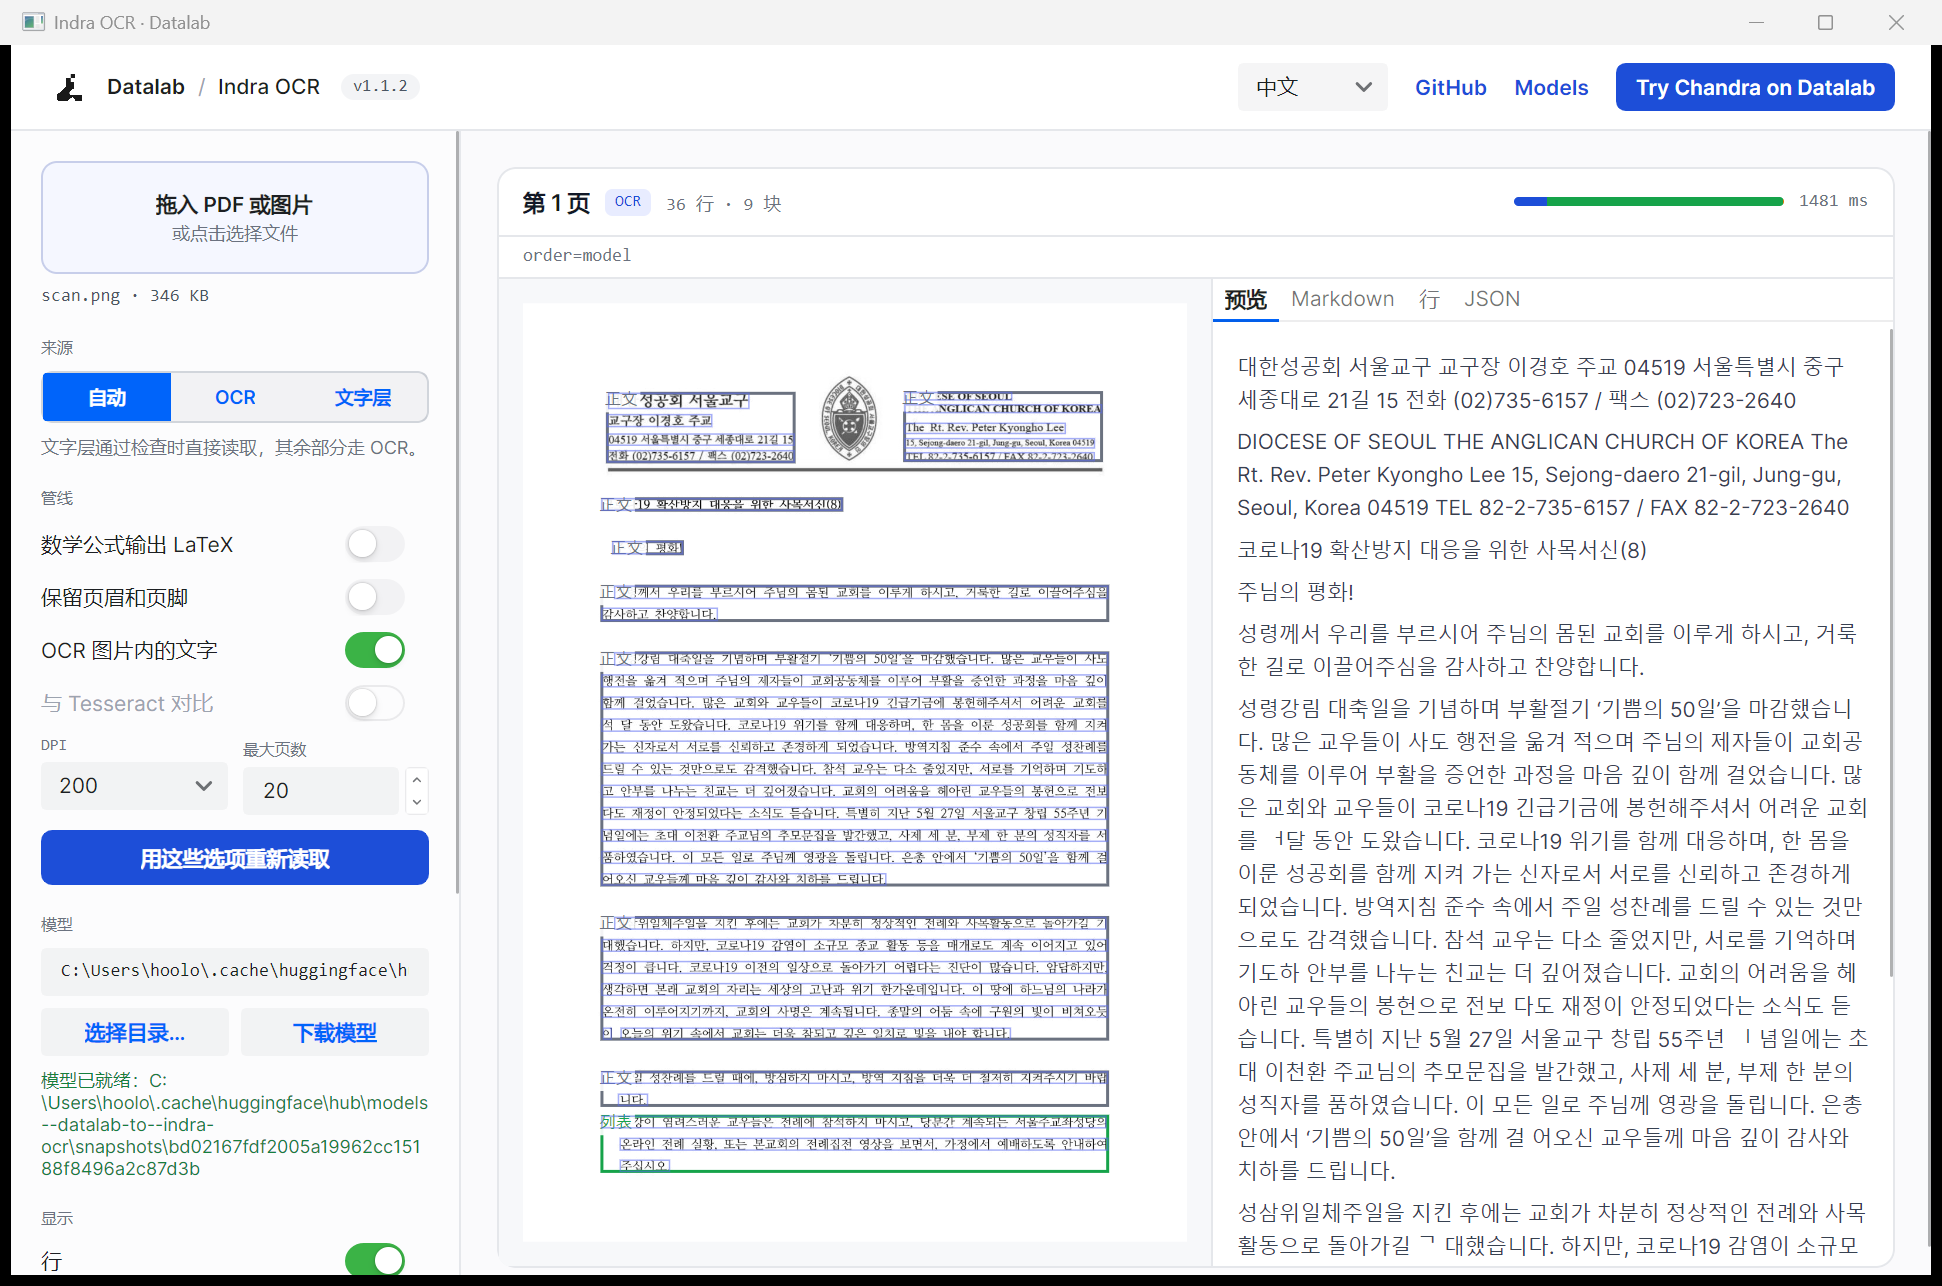
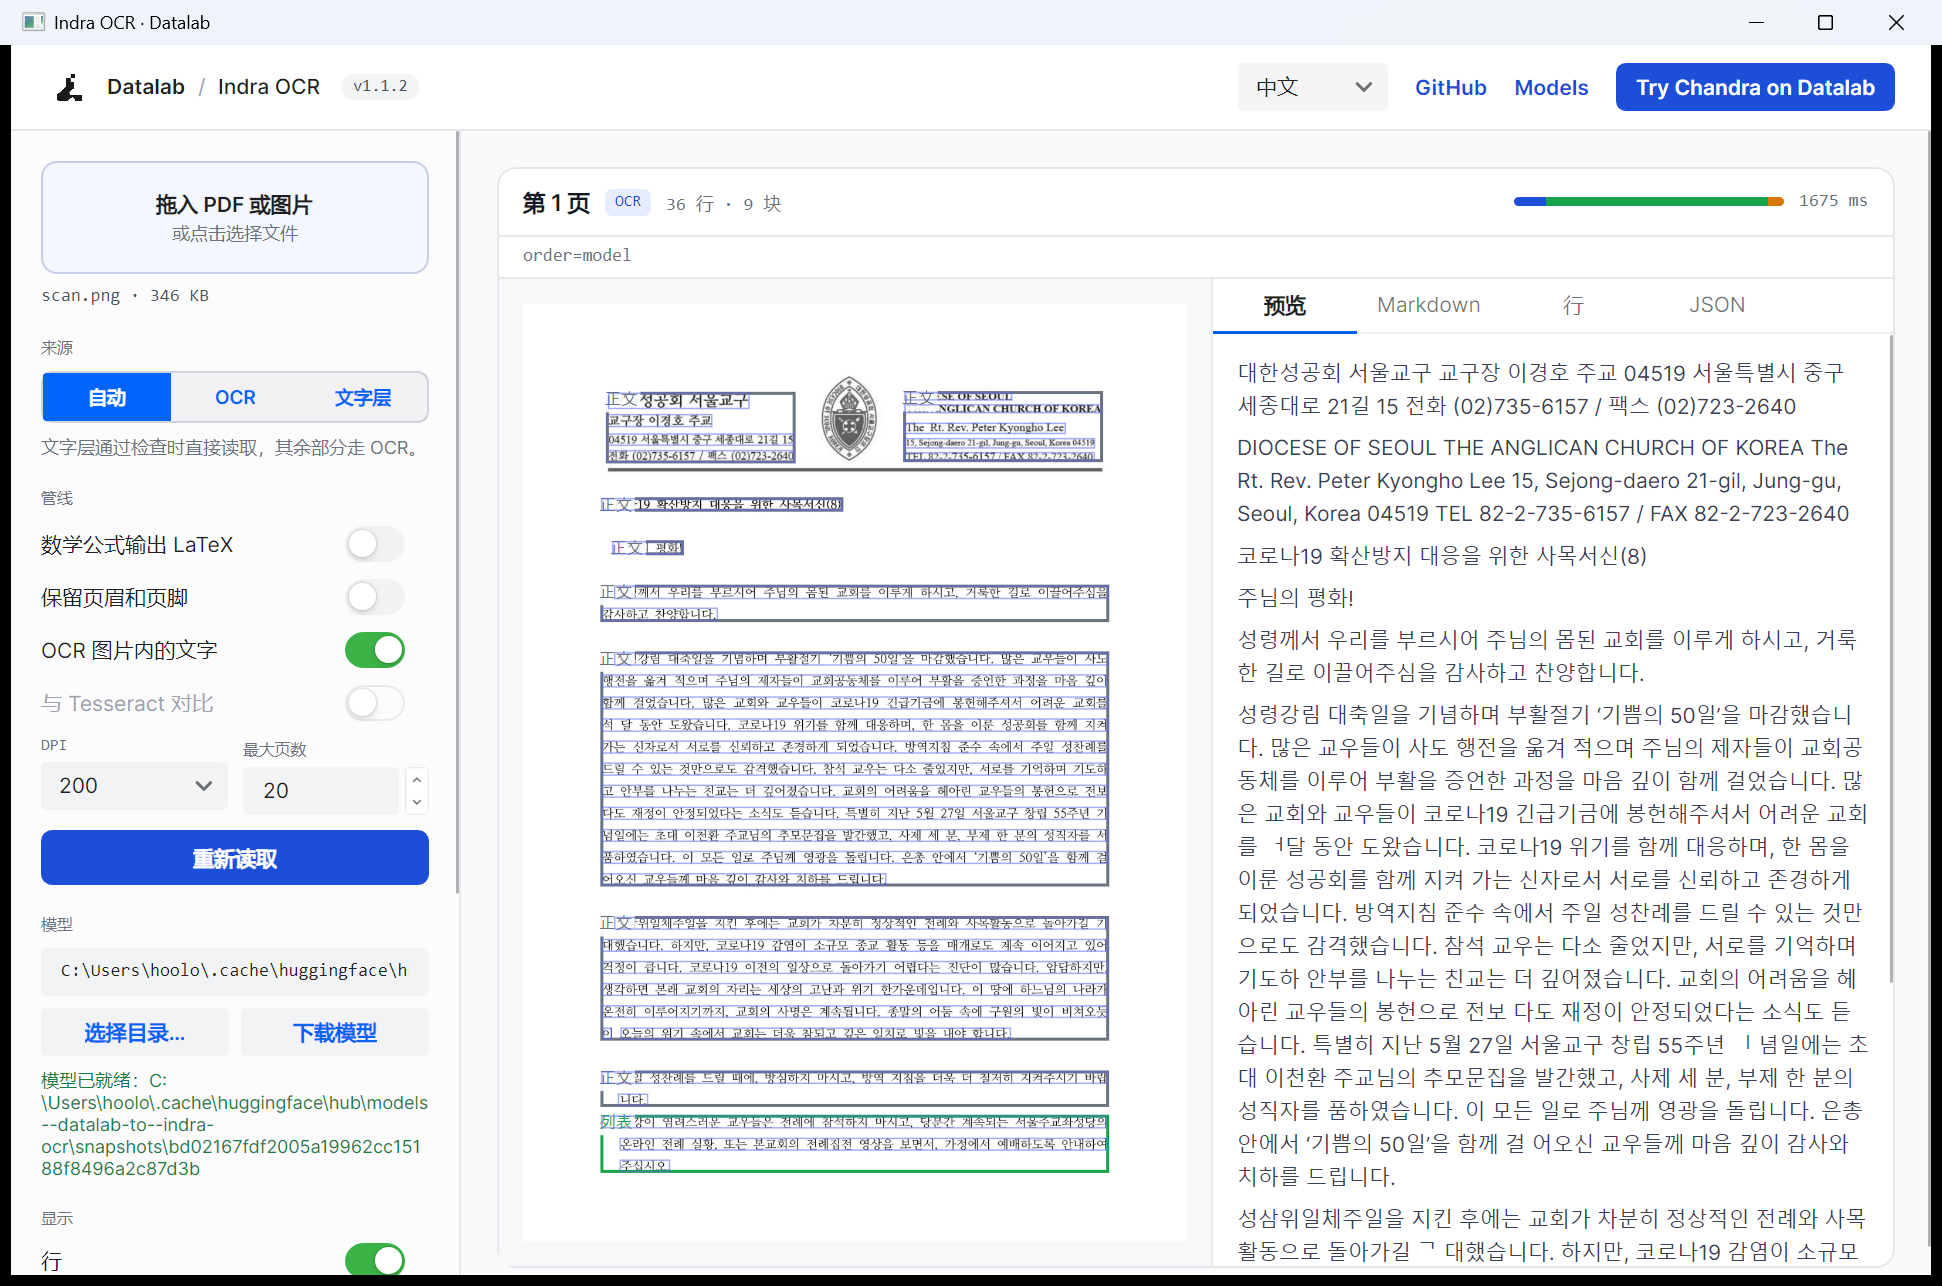
GUI: sync page box and line row hover; equal tabs

Changed region(s): [[0.6179, 0.2177, 0.9578, 0.9953], [0.0618, 0.6532, 0.1854, 0.6843], [0.8651, 0.2177, 0.896, 0.2488]]

diff --git a/dotnet/src/IndraOcr.Desktop/MainWindow.axaml.cs b/dotnet/src/IndraOcr.Desktop/MainWindow.axaml.cs
@@ -149,7 +149,7 @@ public partial class MainWindow : Window
         TesseractText.Text = Loc.T("Compare with Tesseract", "与 Tesseract 对比");
         DpiCaption.Text = "DPI";
         MaxPagesCaption.Text = Loc.T("MAX PAGES", "最大页数");
-        RerunButton.Content = Loc.T("Read again with these options", "用这些选项重新读取");
+        RerunButton.Content = Loc.T("Read again", "重新读取");
         BrowseButton.Content = Loc.T("Choose folder...", "选择目录…");
         DownloadButton.Content = Loc.T("Download", "下载模型");
         ModelPathBox.PlaceholderText = Loc.T(
@@ -701,6 +701,13 @@ public partial class MainWindow : Window
             ColumnDefinitions = new ColumnDefinitions("1.05*,*"),
             MinHeight = 420,
         };
+        var overlayHost = new Border
+        {
+            Background = Brushes.Transparent,
+            Child = overlay,
+        };
+        overlayHost.PointerMoved += (_, e) => overlay.HoverAt(e.GetPosition(overlay));
+        overlayHost.PointerExited += (_, _) => overlay.ClearHover();
         var left = new Border
         {
             Background = Surface,
@@ -709,7 +716,7 @@ public partial class MainWindow : Window
             Padding = new Thickness(16),
             Child = new ScrollViewer
             {
-                Content = overlay,
+                Content = overlayHost,
                 HorizontalScrollBarVisibility = ScrollBarVisibility.Disabled,
                 VerticalScrollBarVisibility = ScrollBarVisibility.Auto,
             },
@@ -749,12 +756,21 @@ public partial class MainWindow : Window
             Padding = new Thickness(12, 10),
             HorizontalScrollBarVisibility = ScrollBarVisibility.Disabled,
         };
-        tabs.Items.Add(new TabItem { Header = Loc.T("Preview", "预览"), Content = preview });
-        tabs.Items.Add(new TabItem { Header = "Markdown", Content = markdown });
-        tabs.Items.Add(new TabItem { Header = Loc.T("Lines", "行"), Content = lines });
-        tabs.Items.Add(new TabItem { Header = "JSON", Content = json });
+        tabs.Items.Add(Tab(Loc.T("Preview", "预览"), preview));
+        tabs.Items.Add(Tab("Markdown", markdown));
+        tabs.Items.Add(Tab(Loc.T("Lines", "行"), lines));
+        tabs.Items.Add(Tab("JSON", json));
         tabs.SelectedIndex = 0;
         return tabs;
+
+        static TabItem Tab(string header, object content) => new()
+        {
+            Header = header,
+            Content = content,
+            Width = 96,
+            HorizontalContentAlignment = HorizontalAlignment.Center,
+            Padding = new Thickness(8, 8),
+        };
     }
 
     private static Control PaneText(string text, bool wrap) => new TextBox
@@ -775,6 +791,22 @@ public partial class MainWindow : Window
     private static Control LineRows(PageResult page, PageOverlay overlay)
     {
         var list = new StackPanel { Spacing = 1 };
+        var rows = new List<(Border Row, TextBlock Index)>();
+
+        void Select(int selected)
+        {
+            for (int j = 0; j < rows.Count; j++)
+            {
+                bool on = j == selected;
+                rows[j].Row.Background = on ? AccentSoft : Brushes.Transparent;
+                rows[j].Row.BorderBrush = on ? Accent : Brushes.Transparent;
+                rows[j].Index.Foreground = on
+                    ? Accent
+                    : new SolidColorBrush(Color.Parse("#9CA3AF"));
+                rows[j].Index.FontWeight = on ? FontWeight.SemiBold : FontWeight.Normal;
+            }
+        }
+
         for (int i = 0; i < page.Lines.Count; i++)
         {
             var line = page.Lines[i];
@@ -823,26 +855,36 @@ public partial class MainWindow : Window
 
             var row = new Border
             {
-                Padding = new Thickness(6, 3),
+                Padding = new Thickness(4, 3),
                 CornerRadius = new CornerRadius(5),
                 Background = Brushes.Transparent,
+                BorderBrush = Brushes.Transparent,
+                BorderThickness = new Thickness(2, 0, 0, 0),
                 Child = grid,
             };
+            rows.Add((row, index));
             int lineIndex = i;
             row.PointerEntered += (_, _) =>
             {
+                Select(lineIndex);
                 overlay.HighlightedLine = lineIndex;
                 overlay.Refresh();
-                row.Background = AccentSoft;
             };
             row.PointerExited += (_, _) =>
             {
+                if (overlay.HighlightedLine != lineIndex)
+                {
+                    return;
+                }
+                Select(-1);
                 overlay.HighlightedLine = -1;
                 overlay.Refresh();
-                row.Background = Brushes.Transparent;
             };
             list.Children.Add(row);
         }
+
+        // Hovering a box on the page selects the matching row here.
+        overlay.LineHoverChanged += Select;
         return list;
     }
 

diff --git a/dotnet/src/IndraOcr.Desktop/Controls/PageOverlay.cs b/dotnet/src/IndraOcr.Desktop/Controls/PageOverlay.cs
@@ -44,7 +44,83 @@ public sealed class PageOverlay : Control
     public bool ShowOrder { get; set; }
     public int HighlightedLine { get; set; } = -1;
 
+    /// <summary>Raised when the pointer moves on/off a line box (index, -1 = none).</summary>
+    public event Action<int>? LineHoverChanged;
+
     public void Refresh() => InvalidateVisual();
+
+    /// <summary>Highlights the line box under a point in overlay coordinates.</summary>
+    public void HoverAt(Point position)
+    {
+        int hit = ShowLines ? HitTestLine(position) : -1;
+        if (hit == HighlightedLine)
+        {
+            return;
+        }
+        HighlightedLine = hit;
+        LineHoverChanged?.Invoke(hit);
+        InvalidateVisual();
+    }
+
+    /// <summary>Clears the hover highlight when the pointer leaves the page.</summary>
+    public void ClearHover()
+    {
+        if (HighlightedLine < 0)
+        {
+            return;
+        }
+        HighlightedLine = -1;
+        LineHoverChanged?.Invoke(-1);
+        InvalidateVisual();
+    }
+
+    /// <summary>Finds the smallest line box under a point in page coordinates.</summary>
+    private int HitTestLine(Point position)
+    {
+        if (Image is null)
+        {
+            return -1;
+        }
+        return HitTestLine(position, Bounds.Size, Image.PixelSize, Lines);
+    }
+
+    /// <summary>Hit-tests page-space line boxes in a letterboxed image area.</summary>
+    public static int HitTestLine(
+        Point position, Size bounds, PixelSize image, IReadOnlyList<LineView> lines)
+    {
+        if (lines.Count == 0)
+        {
+            return -1;
+        }
+        double iw = Math.Max(1, image.Width);
+        double ih = Math.Max(1, image.Height);
+        double scale = Math.Min(bounds.Width / iw, bounds.Height / ih);
+        if (scale <= 0)
+        {
+            return -1;
+        }
+        double ox = (bounds.Width - iw * scale) / 2;
+        double oy = (bounds.Height - ih * scale) / 2;
+        double x = (position.X - ox) / scale;
+        double y = (position.Y - oy) / scale;
+        int best = -1;
+        double bestArea = double.MaxValue;
+        for (int i = 0; i < lines.Count; i++)
+        {
+            var line = lines[i];
+            if (x < line.X0 || x > line.X1 || y < line.Y0 || y > line.Y1)
+            {
+                continue;
+            }
+            double area = (line.X1 - line.X0) * (line.Y1 - line.Y0);
+            if (area < bestArea)
+            {
+                bestArea = area;
+                best = i;
+            }
+        }
+        return best;
+    }
 
     protected override Size MeasureOverride(Size availableSize)
     {

diff --git a/dotnet/tests/IndraOcr.Tests/PageOverlayTests.cs b/dotnet/tests/IndraOcr.Tests/PageOverlayTests.cs
@@ -1,0 +1,42 @@
+using Avalonia;
+using IndraOcr.Desktop.Controls;
+using IndraOcr.Desktop.Session;
+
+namespace IndraOcr.Tests;
+
+public class PageOverlayTests
+{
+    private static readonly LineView[] Lines =
+    {
+        new(10, 10, 50, 20, "first", 1),
+        new(60, 10, 90, 20, "second", 1),
+    };
+
+    [Fact]
+    public void HitTestMapsThroughLetterboxing()
+    {
+        var bounds = new Size(200, 100);
+        var image = new PixelSize(100, 100);
+
+        // The image is centred: 50 px of empty space on both sides.
+        Assert.Equal(0, PageOverlay.HitTestLine(new Point(50 + 30, 15), bounds, image, Lines));
+        Assert.Equal(1, PageOverlay.HitTestLine(new Point(50 + 75, 15), bounds, image, Lines));
+        Assert.Equal(-1, PageOverlay.HitTestLine(new Point(50 + 55, 15), bounds, image, Lines));
+        Assert.Equal(-1, PageOverlay.HitTestLine(new Point(10, 15), bounds, image, Lines));
+    }
+
+    [Fact]
+    public void HitTestPrefersTheSmallestOverlappingBox()
+    {
+        var lines = new[]
+        {
+            new LineView(10, 10, 50, 20, "block", 1),
+            new LineView(20, 12, 30, 18, "inner", 1),
+        };
+        var bounds = new Size(100, 100);
+        var image = new PixelSize(100, 100);
+
+        Assert.Equal(1, PageOverlay.HitTestLine(new Point(25, 15), bounds, image, lines));
+        Assert.Equal(0, PageOverlay.HitTestLine(new Point(45, 15), bounds, image, lines));
+    }
+}

diff --git a/docs/PORT_TO_CSHARP.md b/docs/PORT_TO_CSHARP.md
@@ -341,14 +341,14 @@ $env:HF_HUB_DISABLE_XET = "1"
 - `/info` 的 `version/tesseract/defaults` 与参考一致
 - 6 个 viewer 测试通过（引擎 + 真实 Kestrel HTTP）：图像/PDF、旋转页、非法 mode、坏文件、未知文档、HTTP 400
 - Tesseract 对照未实现：`--tesseract` 会提示不可用，`/info.tesseract` 为 false
-- 全量测试 **71 passed**
+- 全量测试 **73 passed**
 
 **桌面 GUI（Avalonia 12 + Semi Avalonia）**：
 
 | 文件 | 内容 |
 |---|---|
 | `src/IndraOcr.Desktop/Session/OcrSession.cs` | 打开文档、按选项读单页、模型缓存/下载、JPEG + 行/块 + JSON |
-| `src/IndraOcr.Desktop/Controls/PageOverlay.cs` | 页图叠加行框、版面块、标签、阅读序；行高亮 |
+| `src/IndraOcr.Desktop/Controls/PageOverlay.cs` | 页图叠加行框、版面块、标签、阅读序；框 ↔ 右侧行列表双向悬停高亮 |
 | `src/IndraOcr.Desktop/Controls/LoadingSpinner.cs` | 识别/下载时的旋转点 Loading 动画 |
 | `src/IndraOcr.Desktop/Localization.cs` | 中/英界面切换，默认系统语言，选择持久化 |
 | `src/IndraOcr.Desktop/Controls/MarkdownRenderer.cs` | 与 Web 相同的 Markdown 子集（标题/段落/列表/HTML 表格/LaTeX） |
@@ -362,8 +362,10 @@ $env:HF_HUB_DISABLE_XET = "1"
 - 图像（scan.png）读取 36 行、9 blocks；PDF 旋转页、模型目录/下载、显示开关可用
 - 语言：默认跟随系统（中文系统为中文），右上角可切 English/中文；切换后页卡/标签/统计重建，选择写入本地
 - 识别中全窗半透明遮罩 + 旋转点动画，侧栏禁用、覆盖层拦截点击
+- 页框悬停：页图上的文本框高亮时，右侧 `行` 列表同步选中对应行；反向悬停行也会高亮页框
+- 页卡 4 个标签页等宽（96 DIP）；重新读取按钮文案为“重新读取”
 - NativeAOT：`publish-desktop.ps1` 发布；真实进程完成 scan.png OCR（36 行/9 blocks），输出约 165 MB
-- 4 个 session 测试 + 全量 **71 passed**
+- 4 个 session 测试 + 2 个覆盖层命中测试；全量 **73 passed**
 - 不支持 Tesseract 对照；一次只打开一个文档
 
 **尚未覆盖（留给后续阶段）**：
@@ -663,12 +665,13 @@ S7 已完成：
 
 - [x] Avalonia 12 + Semi Avalonia，布局仿 Web 查看器
 - [x] 页图覆盖层：行框、版面块、块标签、阅读序、行高亮
-- [x] 逐页读取、4 个标签页（Preview/Markdown/Lines/JSON）
+- [x] 页框 ↔ 右侧行列表双向悬停同步高亮
+- [x] 逐页读取、4 个等宽标签页（Preview/Markdown/Lines/JSON）
 - [x] 模型目录输入/选择/下载（含 math）；首次读取自动下载
 - [x] 来源/管线/DPI/最大页数/显示开关；真实文件与拖放打开
 - [x] 高 DPI 适配（PerMonitorV2 manifest + 按可用屏幕收敛窗口）
 - [x] 中/英切换，默认系统语言并持久化；页卡/覆盖层/统计随语言重建
 - [x] 识别中 Loading 遮罩，禁止点击与拖放
 - [x] NativeAOT 发布（`publish-desktop.ps1`），真实进程 OCR 验证通过
-- [x] 4 个 session 测试；全量 71 passed
+- [x] 4 个 session 测试 + 2 个覆盖层测试；全量 73 passed
 - [ ] Tesseract 对照（与 Web viewer 相同，未实现）

diff --git a/dotnet/USAGE.md b/dotnet/USAGE.md
@@ -349,7 +349,7 @@ dist\desktop\IndraOcr.Desktop.exe scan.png
 
 - **语言**：右上角 `中文 / English` 切换，默认跟随系统语言；选择会记住（`%LOCALAPPDATA%\indra-ocr\desktop-language.txt`）。切换后静态文案、页卡、覆盖层标签、统计和提示立即更新
 - **识别中**：整个窗口显示半透明遮罩 + 旋转点 Loading 动画，并禁止点击（侧栏同时禁用），完成或出错后恢复
-- **Source**：Auto / OCR / Text layer，切换后点 “用这些选项重新读取”
+- **Source**：Auto / OCR / Text layer，切换后点 “重新读取”
 - **Pipeline**：Math as LaTeX、保留页眉页脚、OCR 图片内文字；DPI（150/200/300）；最大页数
 - **Show**：Lines、Layout blocks、Block labels、Reading order，可随时开关（立即作用于所有已显示页）
 - **Model**：模型目录输入框、`选择目录…`、`下载模型`
@@ -360,7 +360,7 @@ dist\desktop\IndraOcr.Desktop.exe scan.png
 - 每页卡片：
   - 页图 + 覆盖层（行框 / 版面块 / 标签 / 阅读序）
   - 右上角 **预览 / Markdown / 行 / JSON**
-  - `行` 中悬停某一行会高亮页面上的对应框
+  - `行` 中悬停某一行会高亮页面上的对应框；鼠标划过页面上的文本框，也会高亮该框并在右侧选中对应行（双向同步）
   - 顶部显示来源（文字层 / OCR / 混合）、行数、块数、旋转/倾斜、阶段耗时条
 
 

diff --git a/dotnet/README.md b/dotnet/README.md
@@ -148,7 +148,8 @@ Avalonia 12 + Semi Avalonia, laid out like the web viewer: file drop/choose on
 the left, pipeline options, model folder + download, display toggles and run
 stats; each page shows the image with line boxes, layout blocks, labels and
 reading order, plus Preview / Markdown / Lines / JSON tabs. Hovering a line in
-the list highlights its box. Pages appear as they finish.
+the list highlights its box; hovering a box on the page highlights it and
+selects the matching row (both directions). Pages appear as they finish.
 
 The UI follows the system language (English or Chinese) and can be switched in
 the top bar; the choice is remembered. While a document is being read, a
